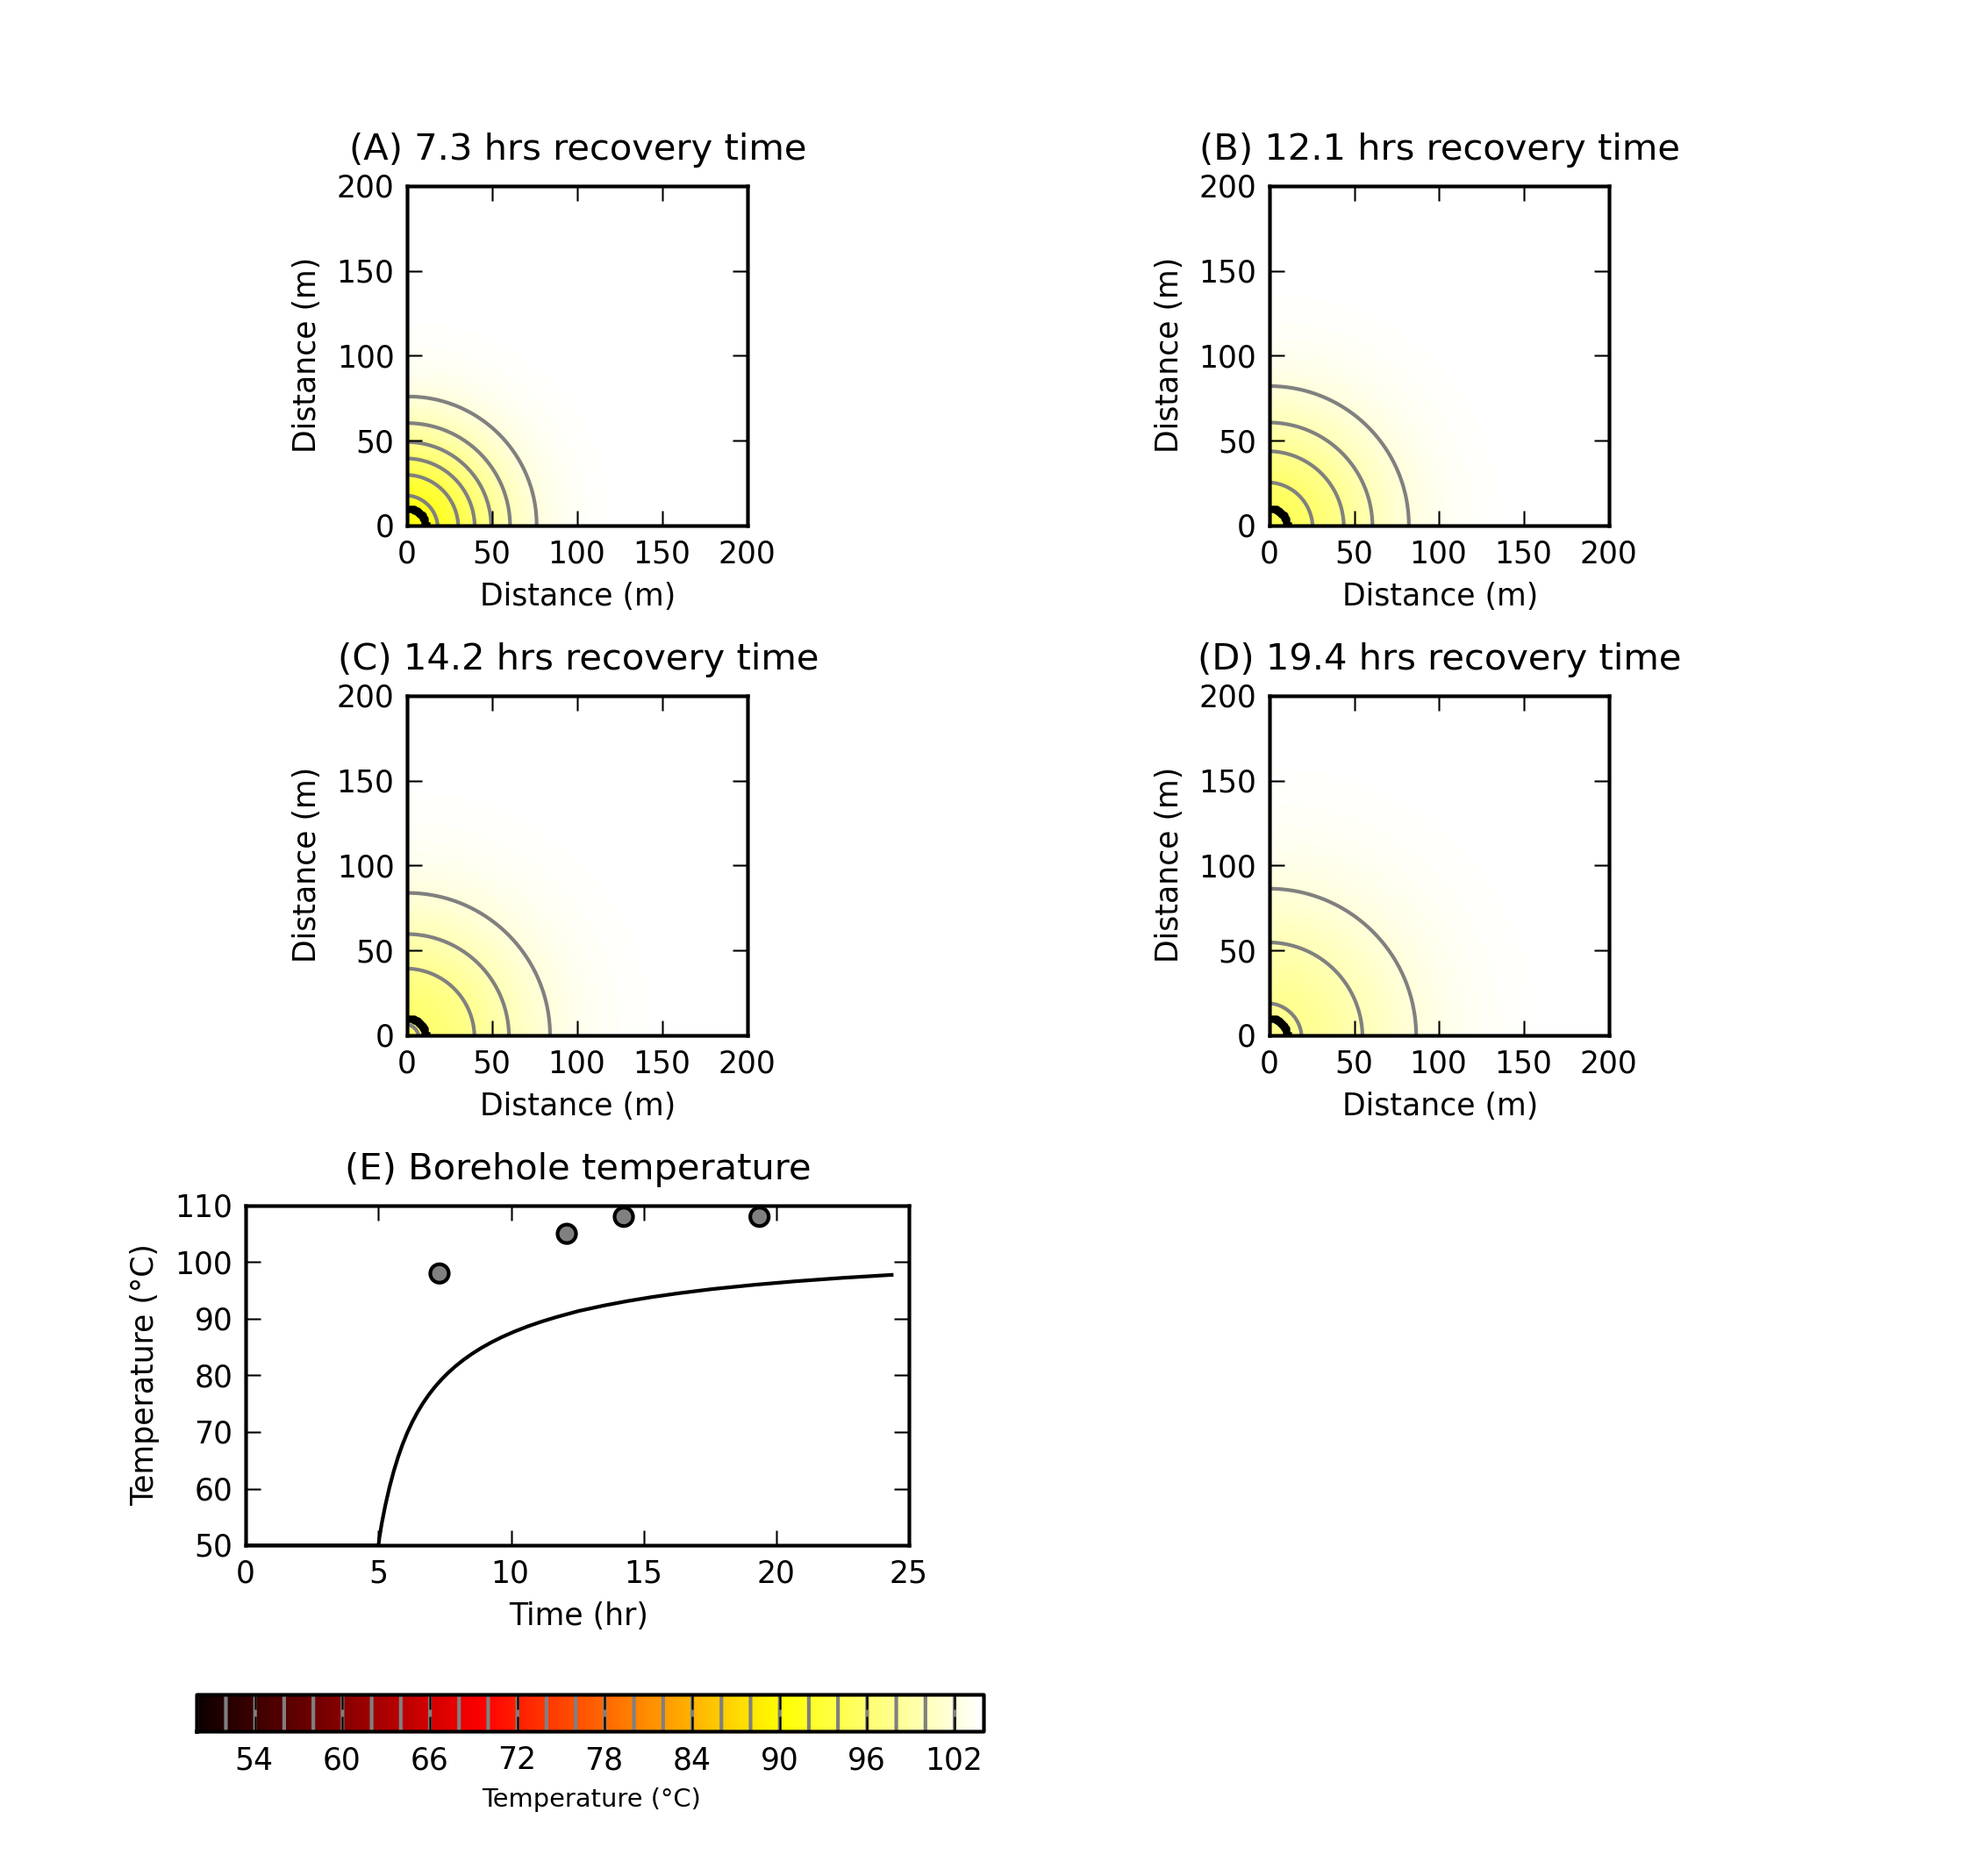
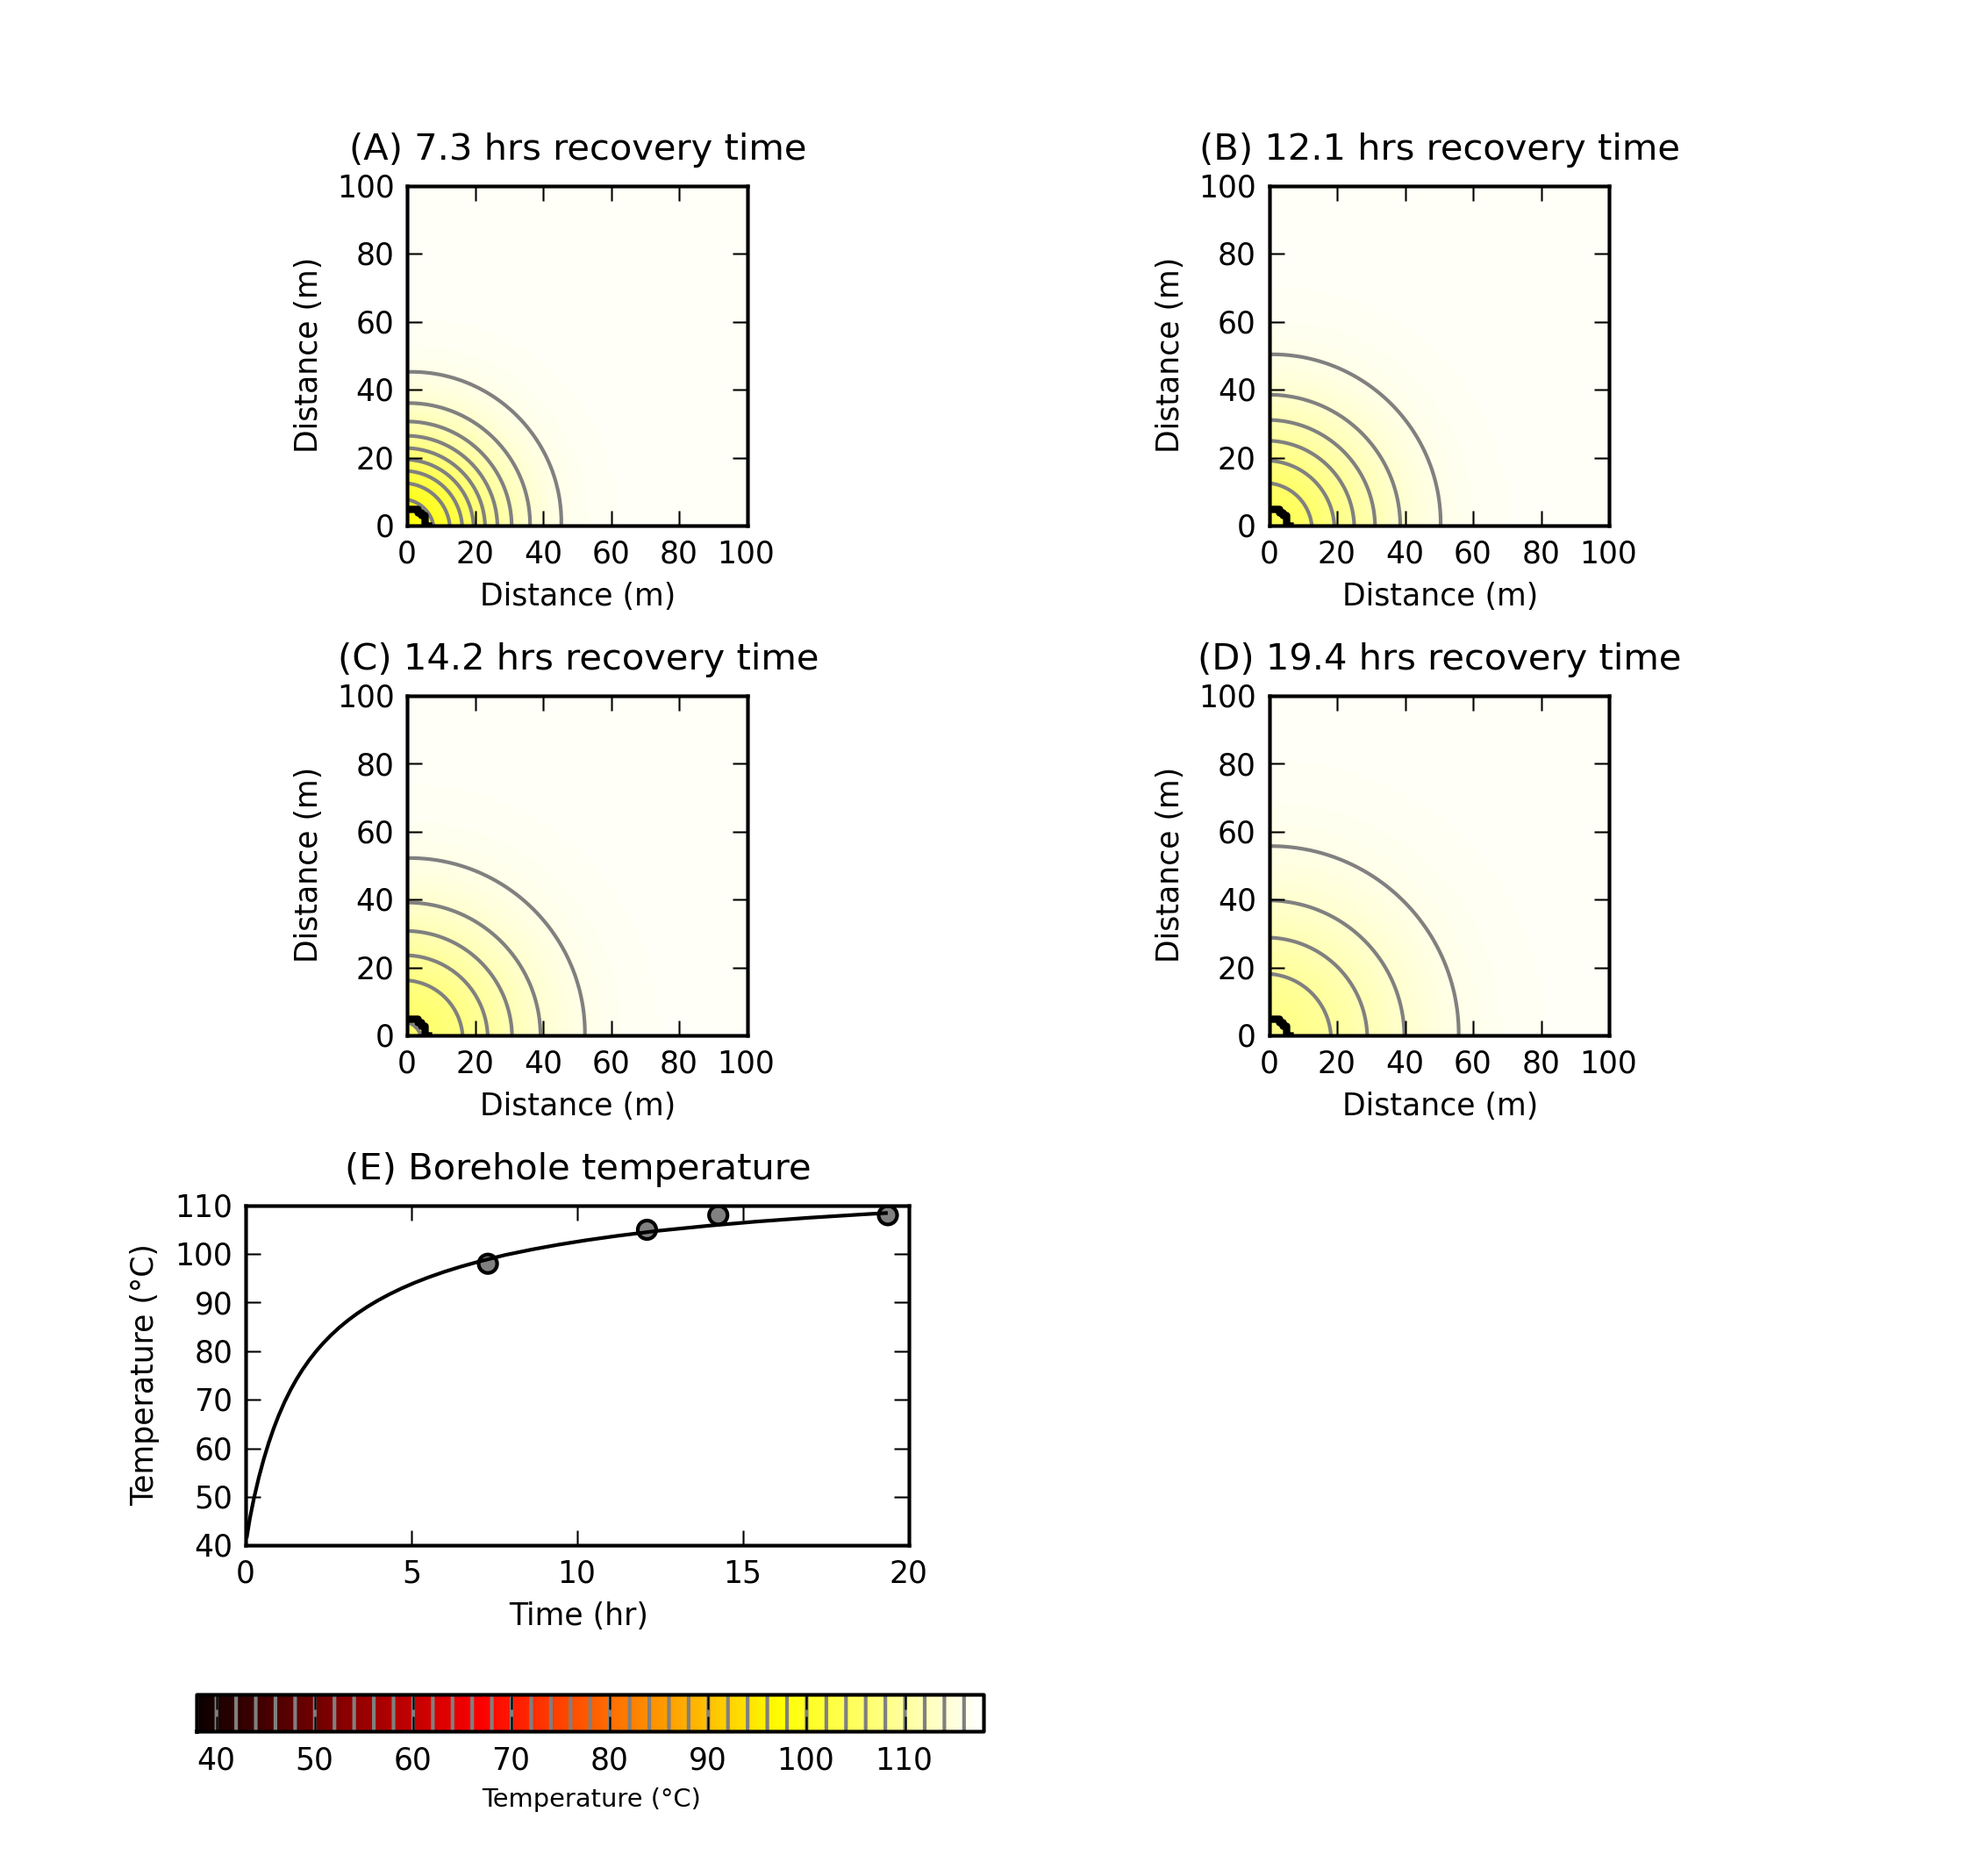
minor changes in figure output

diff --git a/lib/pyBHTlib.py b/lib/pyBHTlib.py
@@ -234,97 +234,6 @@ def finiteVolumeSolver2D_simple(mesh, initTemp, diffusivity, Cx_, Cy_,
             , T_model[step].min(), T_model[step].max(), T_model[step].mean())
 
     return mesh, variable, T_model, viewer
-
-
-
-def heatFlowSolver_python(Tf, K, c, rho, cellsize, Nsteps, timestepSize,
-                            bound, borehole,
-                            returnTemperatureCurve=False):
-
-    """
-    2D explicit finite difference solver
-    """
-    
-    if returnTemperatureCurve == True:
-        BHTline = np.zeros((Nsteps))
-    
-    screenOutput = 0
-    Q = np.zeros((np.shape(Tf)), dtype=float)
-    for step in range(Nsteps):
-        
-        # calculate horizontal and vertical components of heat flow (Q)
-        QHor = (Tf[1:, :]-Tf[:-1, :]) *\
-                        (2.0 / (1.0 / K[:-1, :] + 1.0 / K[1:, :]))
-        QVer = (Tf[:, 1:]-Tf[:, :-1]) *\
-                        (2.0 / (1.0 / K[:, :-1] + 1.0 / K[:, 1:]))
-        Q[:, :] = 0.0
-        Q[:-1, :] = Q[:-1, :] + QHor
-        Q[1:, :] = Q[1:, :] - QHor
-        Q[:, :-1] = Q[:, :-1] + QVer
-        Q[:, 1:] = Q[:, 1:] - QVer
-        
-        # calculate temperature change
-        Tchange = Q / (rho*c) * timestepSize / (cellsize**2)
-        
-        # no change if boundary condition grid=1
-        # (fixed temperature boundary condition)
-        Tchange = Tchange - (Tchange*bound)
-        Tf = Tf + Tchange   
-        
-        if  abs(Tchange).max() > 500:
-            print 'error, large changes in T per timestep (>500 degr)'
-            print 'model unstable, reduce timestep size'
-            sys.exit()
-        
-        # store borehole temperature
-        if returnTemperatureCurve == True:
-            BHTavg = ((borehole*Tf).sum())/(borehole.sum())
-            BHTline[step] = BHTavg
-    
-    if returnTemperatureCurve == True:
-        return Tf, BHTline
-    else:
-        return Tf
-        
-        
-def heatFlowSolver_python_v2(Tf, K, c, rho, cellsize, Nsteps, timestepSize,
-                            bound, borehole,
-                            returnTemperatureCurve=False):
-
-    """
-    2D explicit finite difference solver
-    """
-    nx, ny = Tf.shape
-    if returnTemperatureCurve == True:
-        BHTline = np.zeros((Nsteps))
-    
-    screenOutput = 0
-    Q = np.zeros((np.shape(Tf)), dtype=float)
-    for step in range(Nsteps):
-        print step
-        for x in xrange(nx-1):
-            for y in xrange(ny-1):
-                Qleft, Qright, Qdown, Qup = 0, 0, 0, 0
-                if x>0:
-                    Qleft = (Tf[x-1,y]-Tf[x,y]) *\
-                                (2.0/(1.0/K[x-1,y]+1.0/K[x,y]))
-                if x<(nx-1):
-                    Qright =(Tf[x+1,y]-Tf[x,y]) *\
-                                (2.0/(1.0/K[x+1,y]+1.0/K[x,y]))
-                if y>0:
-                    Qdown = (Tf[x,y-1]-Tf[x,y]) *\
-                                (2.0/(1.0/K[x,y-1]+1.0/K[x,y]))
-                if y<(ny-1):
-                    Qup = (Tf[x,y+1]-Tf[x,y]) *\
-                                (2.0/(1.0/K[x,y+1]+1.0/K[x,y])) 
-                
-                Q = Qleft + Qright + Qdown + Qup
-          
-                if bound[x,y]!=1:
-                    Tf[x,y] = Tf[x,y] + Q / (rho[x,y]*c[x,y]) \
-                        * timestepSize / (cellsize*cellsize)
-              
-    return Tf
     
 
 def BHTcalcFunc(parameters, mudTemp, nx, ny, cellsize, timestep,
@@ -390,13 +299,13 @@ def BHTcalcFunc(parameters, mudTemp, nx, ny, cellsize, timestep,
                             timeStep_adj, bound, borehole,
                             Nsteps, nx, ny)
         # store data for figure:
-        BHTcurve = np.concatenate((BHTcurve, BHTline))
-        try:
-            startTime = BHTtimes[-1] 
-        except:
-            startTime = 0
-        BHTtimes = (startTime+np.linspace(timeStep_adj,
-                            timeStep_adj*Nsteps, Nsteps))
+        #BHTcurve = np.concatenate((BHTcurve, BHTline))
+        #try:
+        #    startTime = BHTtimes[-1] 
+        #except:
+        #    startTime = 0
+        #BHTtimes = (startTime+np.linspace(timeStep_adj,
+        #                    timeStep_adj*Nsteps, Nsteps))
             
         Tplot[:, :, 0] = T.copy()
     else:

diff --git a/pyBHT_params.py b/pyBHT_params.py
@@ -5,7 +5,7 @@ fileName = 'input/BHTinput.csv'
 outputfilename = 'results/BHTout.csv'
 
 # create a figure of the model results for each BHT series:
-makeFigure = False
+makeFigure = True
 
 # False for forward model only, True for calibration of model params:
 calibrate = True
